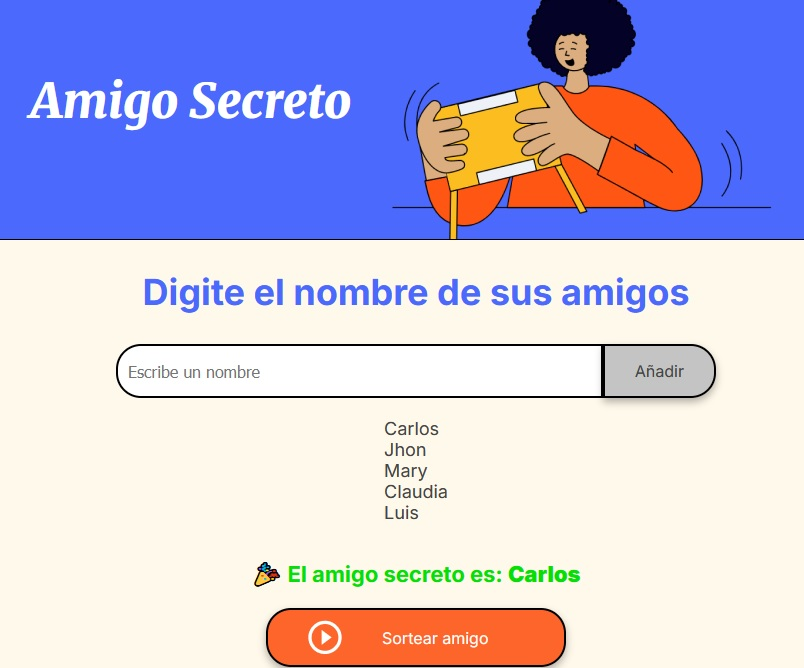
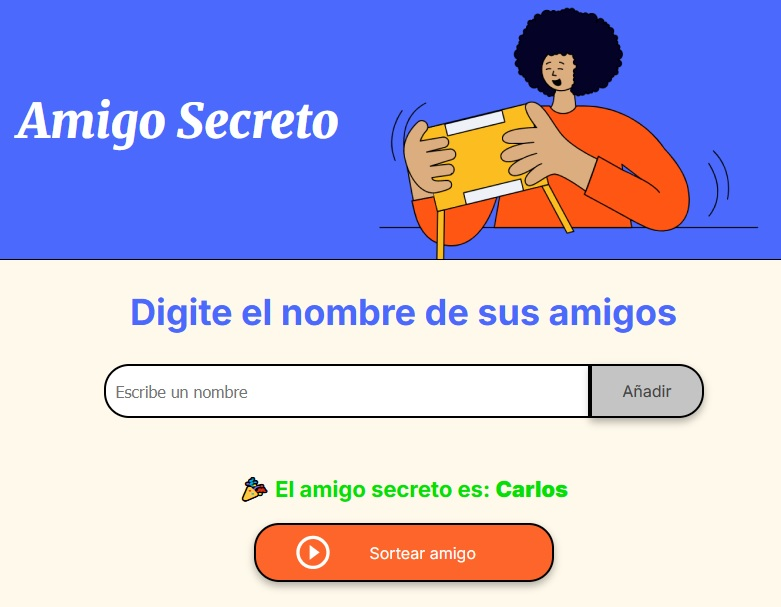
Actualización de la app.js + capture3.jpeg + demo.gif

Changed region(s): [[0.0, 0.0, 1.0, 1.0], [0.0, 0.1186, 0.4609, 0.2669]]

diff --git a/app.js b/app.js
@@ -43,6 +43,9 @@ function sortearAmigo() {
     const indiceAleatorio = Math.floor(Math.random() * amigos.length);
     const amigoSecreto = amigos[indiceAleatorio];
 
+    // Limpiar la lista en pantalla (pero NO borrar el array)
+    document.getElementById("listaAmigos").innerHTML = "";
+
     const resultado = document.getElementById("resultado");
     resultado.innerHTML = `<li>🎉 El amigo secreto es: <strong>${amigoSecreto}</strong></li>`;
 }
